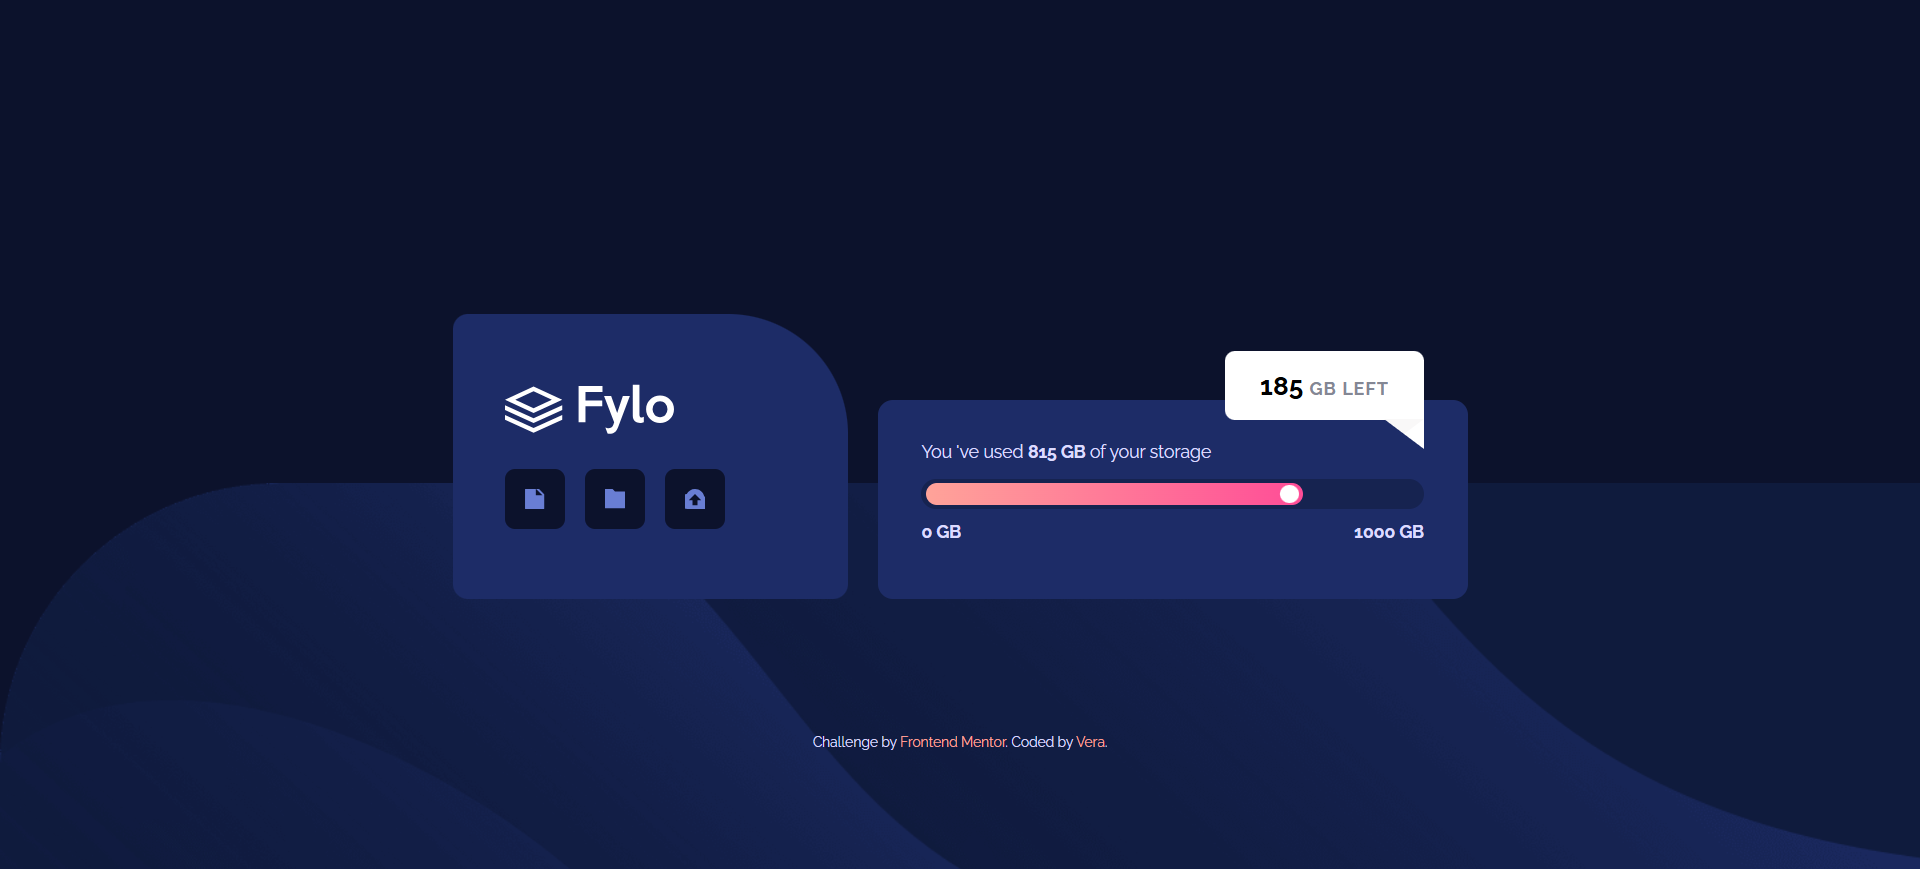
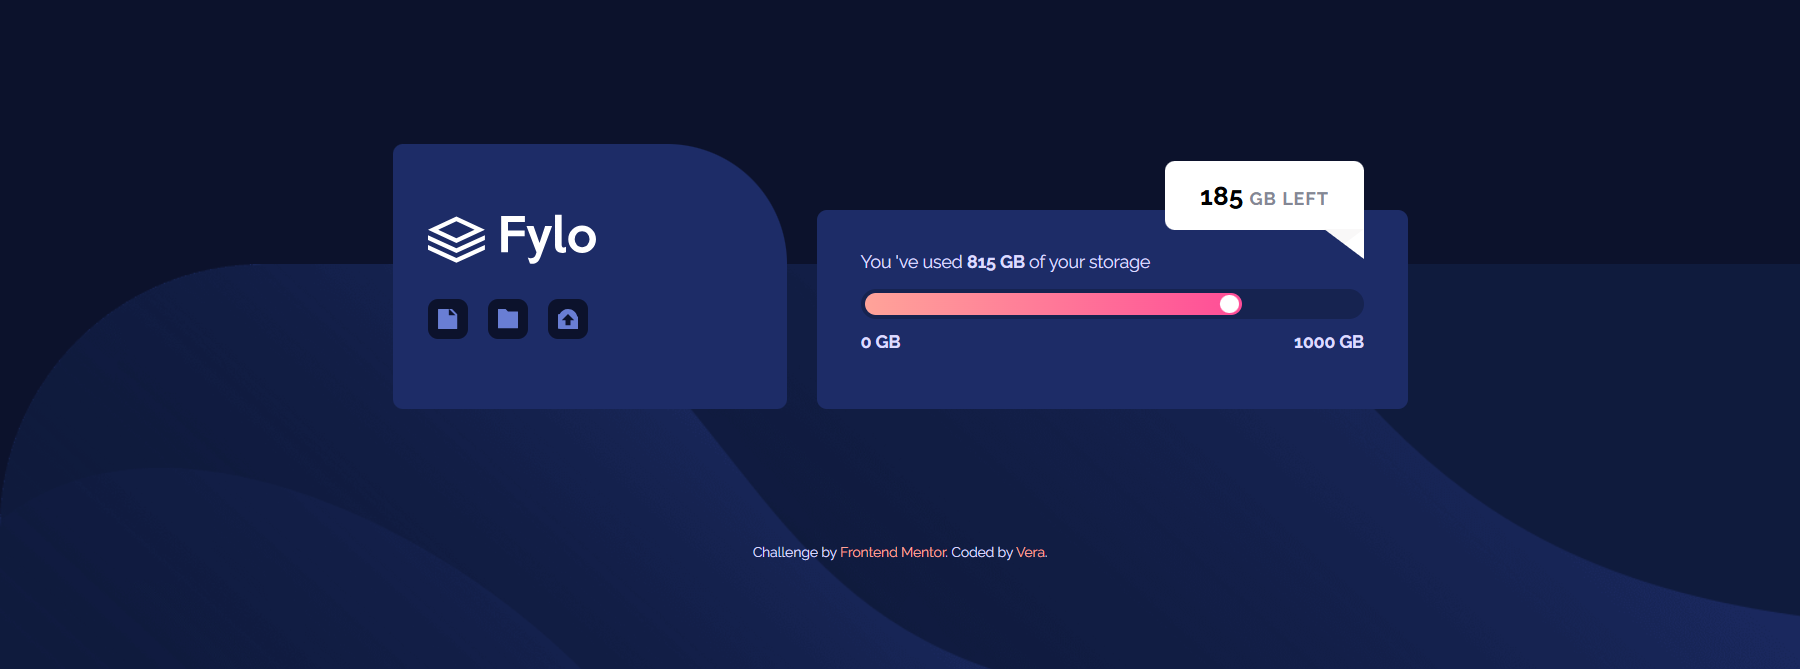
Change the background position and screenshot

Changed region(s): [[0.0933, 0.2093, 1.0, 0.9865], [0.4044, 0.8072, 0.5911, 0.867], [0.5289, 0.9865, 0.56, 1.0]]

diff --git a/style.css b/style.css
@@ -20,7 +20,7 @@ body {
   background: url("./images/bg-mobile.png");
   background-repeat: no-repeat;
   background-size: cover;
-  background-position: top center;
+  background-position: bottom center;
   display: flex;
   flex-direction: column;
   align-items: center;
@@ -49,19 +49,18 @@ img {
   align-items: center;
   justify-content: space-between;
   gap: 1.5rem;
-  margin-top: 8rem;
   width: 100%;
   max-width: 23em;
 }
 
 .header {
   background-color: var(--blue-850);
-  border-radius: 0.75rem 6rem 0.75rem 0.75rem;
+  border-radius: 0.5rem 6rem 0.5rem 0.5rem;
   width: 100%;
   display: flex;
   flex-direction: column;
   justify-content: space-between;
-  padding: 3em;
+  padding: 2em;
 }
 
 .img-container {
@@ -79,7 +78,7 @@ img {
   display: grid;
   place-content: center;
   border-radius: 0.5rem;
-  padding: 1rem;
+  padding: 0.5rem;
 }
 
 .box img {
@@ -90,7 +89,7 @@ img {
 .main {
   width: 100%;
   background-color: var(--blue-850);
-  border-radius: 0.75rem;
+  border-radius: 0.5rem;
   position: relative;
   padding: 2em;
 }
@@ -167,8 +166,7 @@ img {
     background: url("./images/bg-desktop.png");
     background-repeat: no-repeat;
     background-size: contain;
-    background-attachment: fixed;
-    background-position: bottom -20vh center;
+    background-position: bottom -18vh center;
     background-color: var(--blue-950);
   }
 
